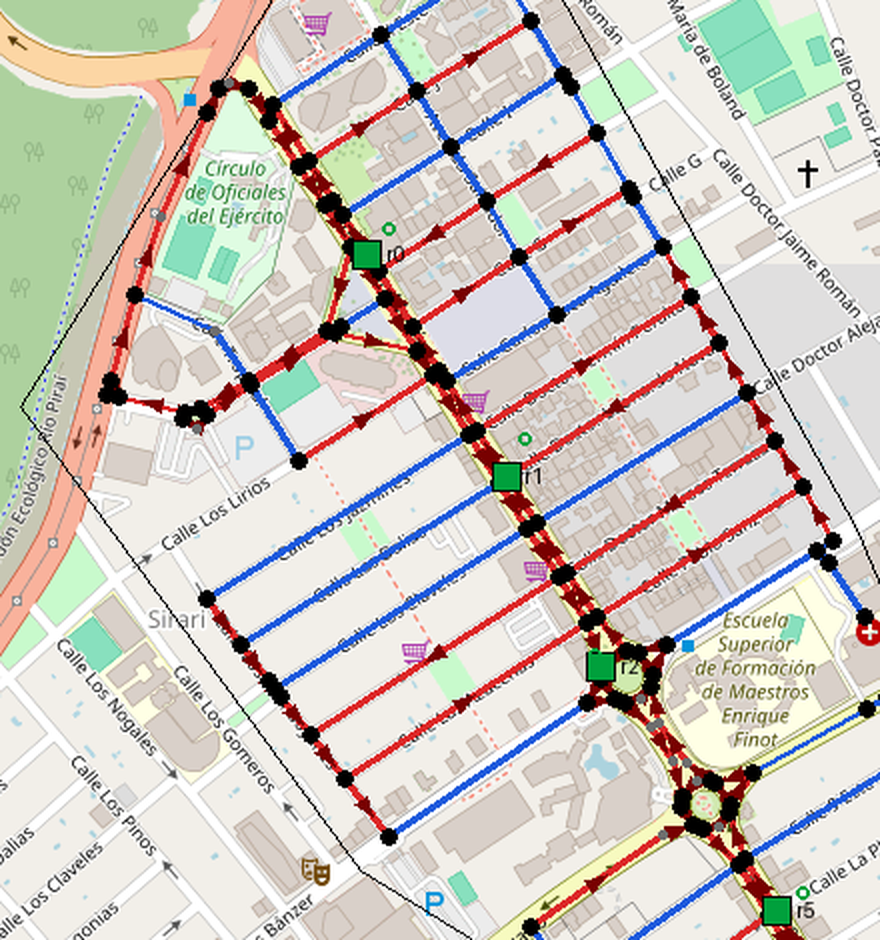
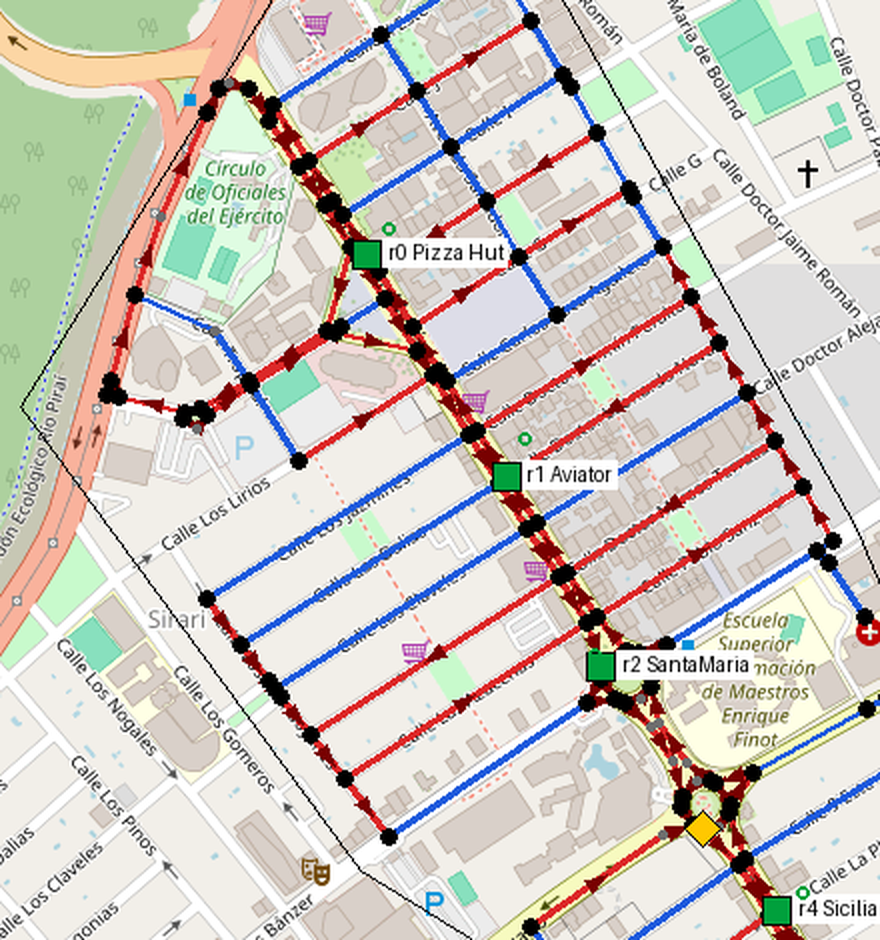
build: la herramienta genera la configuración completa del enunciado
Escribe map, nodes, streets, restaurants, fleet, orders, dispatch,
incidents y simulation con exactamente los campos de la sección 5 (las
calles ya no llevan name), ancla el punto de partida y dibuja los nombres
de los restaurantes en las imágenes de revisión.

diff --git a/tools/osm_network.py b/tools/osm_network.py
@@ -1,20 +1,21 @@
 #!/usr/bin/env python3
-"""Extrae la red vial (nodos, segmentos, restaurantes) desde datos de OpenStreetMap.
+"""Genera la configuración de la simulación con la red vial extraída de OpenStreetMap.
 
-Lee la zona de simulación de un archivo JSON (bounds de la imagen, polígono, restaurantes
-y vistas de revisión; posiciones en píxeles de la imagen de fondo) y produce:
-  - un JSON con `nodes`, `streets` y `restaurants` en el formato de la configuración;
+Lee la zona de simulación de un archivo JSON (bounds de la imagen, polígono, restaurantes,
+punto de partida de las motos, resto de los parámetros y vistas de revisión; las posiciones
+en píxeles de la imagen de fondo) y produce:
+  - el archivo de configuración completo, con el formato de la sección 5 del enunciado;
   - imágenes de revisión con la red dibujada sobre el mapa.
 
 Pasos: calles transitables de Overpass -> cortes en intersecciones (nodo de OSM compartido
 por dos o más calles) -> tramos enteramente dentro del polígono -> componente
 fuertemente conexa más grande (respetando sentido único, nadie queda atrapado) -> nodos de
 curva con Douglas-Peucker para que ningún segmento recto cruce una manzana -> cada
-restaurante en la intersección más cercana a su punto.
+restaurante y el punto de partida en la intersección más cercana a su punto.
 
 Uso:
   tools/osm_network.py --zone tools/zona_equipetrol.json --image data/equipetrol.png \
-                       --out red_vial.json --preview-dir docs/red_vial
+                       --out config/equipetrol.json --preview-dir docs/red_vial
 """
 import argparse, collections, json, math, os, urllib.parse, urllib.request
 from PIL import Image, ImageDraw
@@ -147,7 +148,7 @@ def build(zone, osm, proj):
     scc = largest_scc([(p[0], p[-1], ow) for ow, p, _ in pieces])
     pieces = [x for x in pieces if x[1][0] in scc and x[1][-1] in scc]
 
-    nodes, ids, streets = [], {}, []
+    nodes, ids, streets, street_names = [], {}, [], {}
     def node_id(n):
         if n not in ids:
             ids[n] = "n%d" % len(nodes)
@@ -156,20 +157,42 @@ def build(zone, osm, proj):
     for oneway, piece, name in pieces:
         chain = [piece[k] for k in douglas_peucker([px[n] for n in piece], zone["curveTolerancePx"])]
         for u, v in zip(chain, chain[1:]):
-            streets.append({"id": "s%d" % len(streets), "from": node_id(u), "to": node_id(v),
-                            "oneWay": oneway, "name": name})
+            sid = "s%d" % len(streets)
+            streets.append({"id": sid, "from": node_id(u), "to": node_id(v), "oneWay": oneway})
+            street_names[sid] = name  # solo para el informe por consola: no es parte del formato
     crossings = {ids[n] for n in ids if uses[n] >= 2}
 
     pos = {nd["id"]: proj.to_px(nd["lat"], nd["lon"]) for nd in nodes}
-    restaurants = []
-    for r in zone["restaurants"]:
-        rx, ry = r["px"]
-        best = min(sorted(crossings), key=lambda k: math.hypot(pos[k][0] - rx, pos[k][1] - ry))
-        restaurants.append({"id": r["id"], "name": r["name"], "node": best})
-    return nodes, streets, restaurants, crossings, pos
+    def nearest_crossing(point):
+        x, y = point
+        return min(sorted(crossings), key=lambda k: math.hypot(pos[k][0] - x, pos[k][1] - y))
+    restaurants = [{"id": r["id"], "name": r["name"], "node": nearest_crossing(r["px"]),
+                    "pickupSlots": r["pickupSlots"], "prepTimeMs": r["prepTimeMs"]} for r in zone["restaurants"]]
+    start = nearest_crossing(zone["startPx"])
+    return nodes, streets, street_names, restaurants, start, crossings, pos
 
 
-def draw(image, zone, streets, restaurants, crossings, pos, out_dir):
+def config_json(zone, nodes, streets, restaurants, start):
+    """La configuración completa (sección 5 del enunciado), un elemento por línea en las listas."""
+    c = zone["config"]
+    m = dict(c["map"], bounds=zone["bounds"])
+    fleet = dict(c["fleet"], startNode=start)
+    dump = lambda v: json.dumps(v, ensure_ascii=False)
+    rows = lambda items: ",\n".join("    " + dump(i) for i in items)
+    return ("{\n"
+            '  "map": %s,\n' % dump(m) +
+            '  "nodes": [\n%s\n  ],\n' % rows(nodes) +
+            '  "streets": [\n%s\n  ],\n' % rows(streets) +
+            '  "restaurants": [\n%s\n  ],\n' % rows(restaurants) +
+            '  "fleet": %s,\n' % dump(fleet) +
+            '  "orders": %s,\n' % dump(c["orders"]) +
+            '  "dispatch": %s,\n' % dump(c["dispatch"]) +
+            '  "incidents": %s,\n' % dump(c["incidents"]) +
+            '  "simulation": %s\n' % dump(c["simulation"]) +
+            "}\n")
+
+
+def draw(image, zone, streets, restaurants, start, crossings, pos, out_dir):
     img = Image.open(image).convert("RGB")
     d = ImageDraw.Draw(img)
     d.polygon([tuple(p) for p in zone["polygon"]], outline=(0, 0, 0))
@@ -186,9 +209,13 @@ def draw(image, zone, streets, restaurants, crossings, pos, out_dir):
     for r, z in zip(restaurants, zone["restaurants"]):
         x, y = pos[r["node"]]
         d.rectangle([x - 7, y - 7, x + 7, y + 7], fill=(0, 160, 60), outline=(0, 0, 0))
-        d.text((x + 9, y - 6), r["id"], fill=(0, 0, 0))
+        label = "%s %s" % (r["id"], r["name"])
+        d.rectangle([x + 8, y - 8, x + 12 + d.textlength(label), y + 6], fill=(255, 255, 255))
+        d.text((x + 10, y - 7), label, fill=(0, 0, 0))
         zx, zy = z["px"]
         d.ellipse([zx - 3, zy - 3, zx + 3, zy + 3], outline=(0, 160, 60), width=2)
+    sx, sy = pos[start]  # punto de partida de las motos
+    d.polygon([(sx, sy - 9), (sx + 9, sy), (sx, sy + 9), (sx - 9, sy)], fill=(255, 200, 0), outline=(0, 0, 0))
     os.makedirs(out_dir, exist_ok=True)
     img.save(os.path.join(out_dir, "red_vial_completa.png"), optimize=True)
     for name, box in zone["views"].items():
@@ -208,15 +235,20 @@ def main():
     with open(a.zone) as f:
         zone = json.load(f)
     proj = Projection(zone["bounds"], zone["zoom"])
-    nodes, streets, restaurants, crossings, pos = build(zone, fetch_osm(zone["bounds"], a.cache), proj)
-    with open(a.out, "w") as f:
-        json.dump({"nodes": nodes, "streets": streets, "restaurants": restaurants}, f, ensure_ascii=False, indent=1)
-    draw(a.image, zone, streets, restaurants, crossings, pos, a.preview_dir)
+    nodes, streets, street_names, restaurants, start, crossings, pos = build(
+        zone, fetch_osm(zone["bounds"], a.cache), proj)
+    with open(a.out, "w", encoding="utf-8") as f:
+        f.write(config_json(zone, nodes, streets, restaurants, start))
+    draw(a.image, zone, streets, restaurants, start, crossings, pos, a.preview_dir)
     print("intersecciones %d · nodos %d · segmentos %d (un sentido %d) · restaurantes %d" % (
         len(crossings), len(nodes), len(streets), sum(s["oneWay"] for s in streets), len(restaurants)))
+    def corner(node):
+        return " y ".join(sorted({street_names[s["id"]] for s in streets
+                                  if node in (s["from"], s["to"]) and street_names[s["id"]]}))
     for r in restaurants:
-        names = sorted({s["name"] for s in streets if r["node"] in (s["from"], s["to"]) and s["name"]})
-        print("  %s %-10s %s  %s" % (r["id"], r["name"], r["node"], " y ".join(names)))
+        print("  %s %-16s %-5s slots=%d prep=%s  %s" % (r["id"], r["name"], r["node"], r["pickupSlots"],
+                                                       r["prepTimeMs"], corner(r["node"])))
+    print("  partida de las motos: %s  %s" % (start, corner(start)))
 
 
 if __name__ == "__main__":
